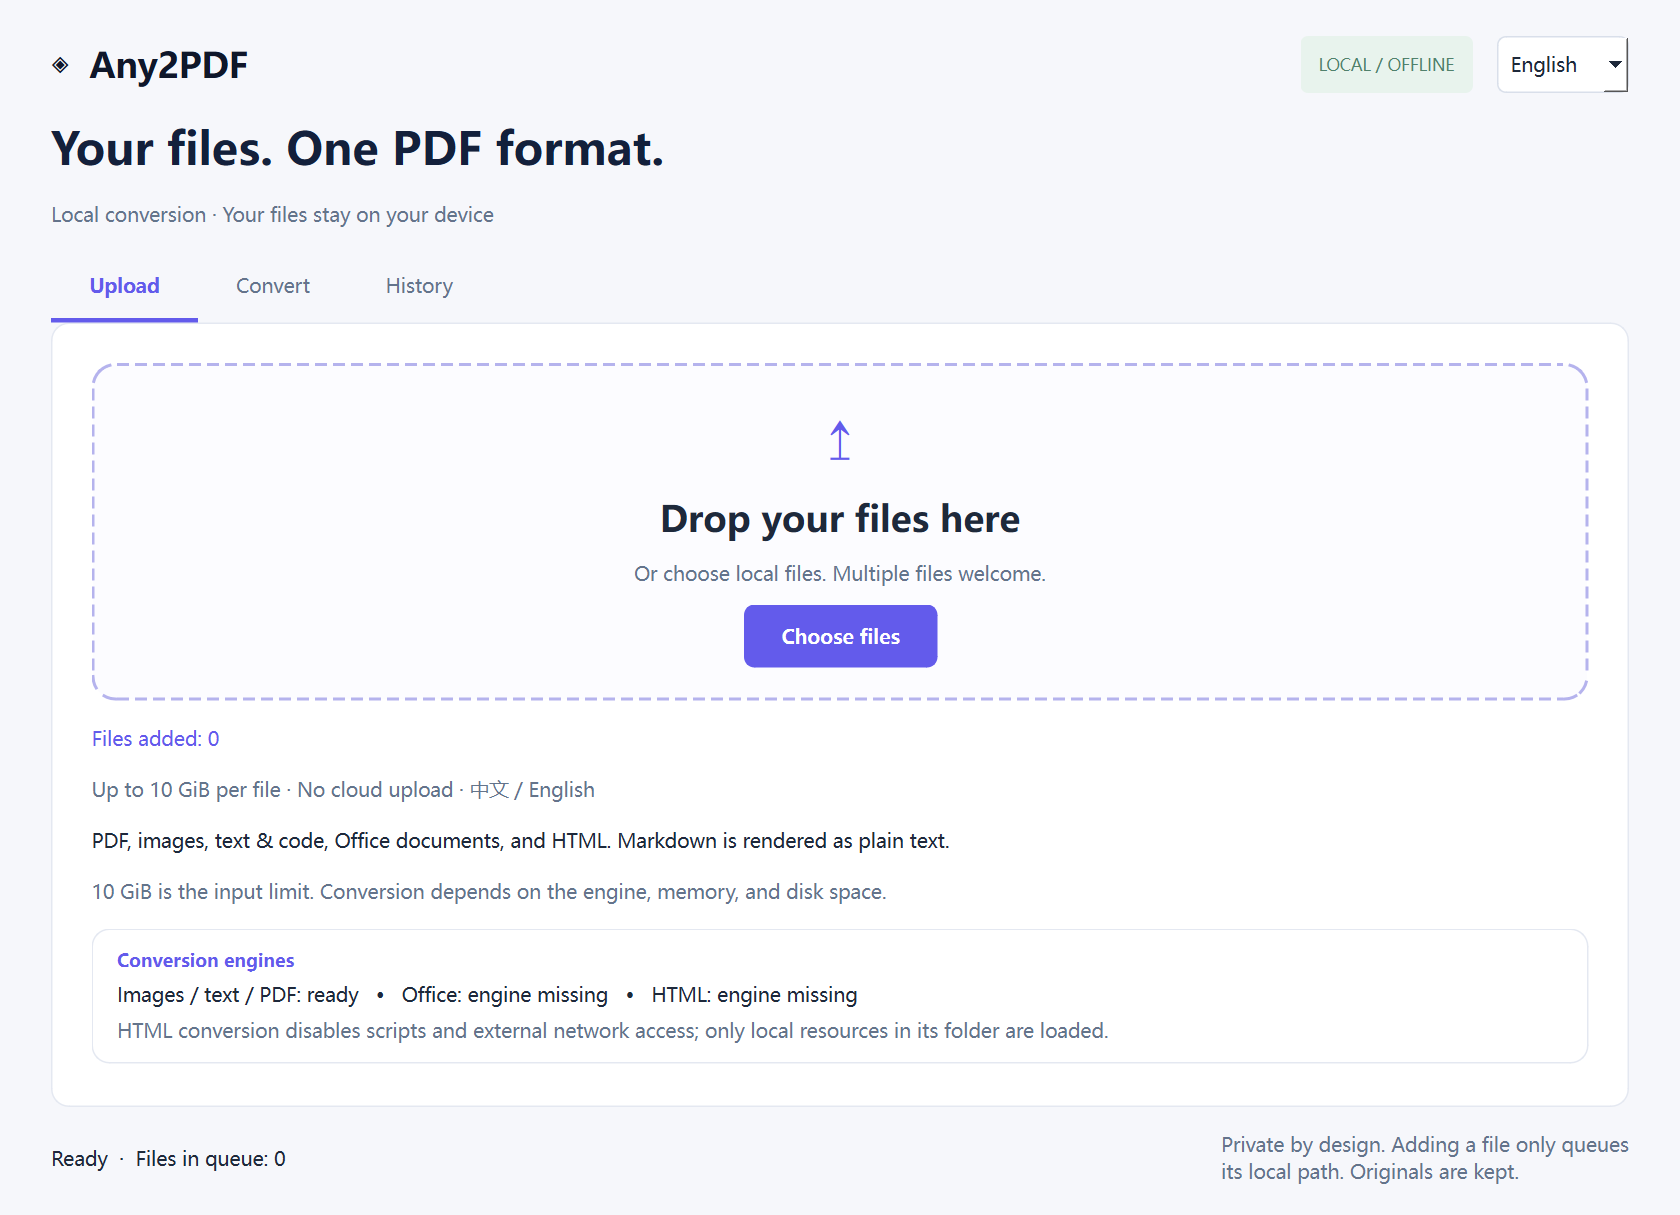
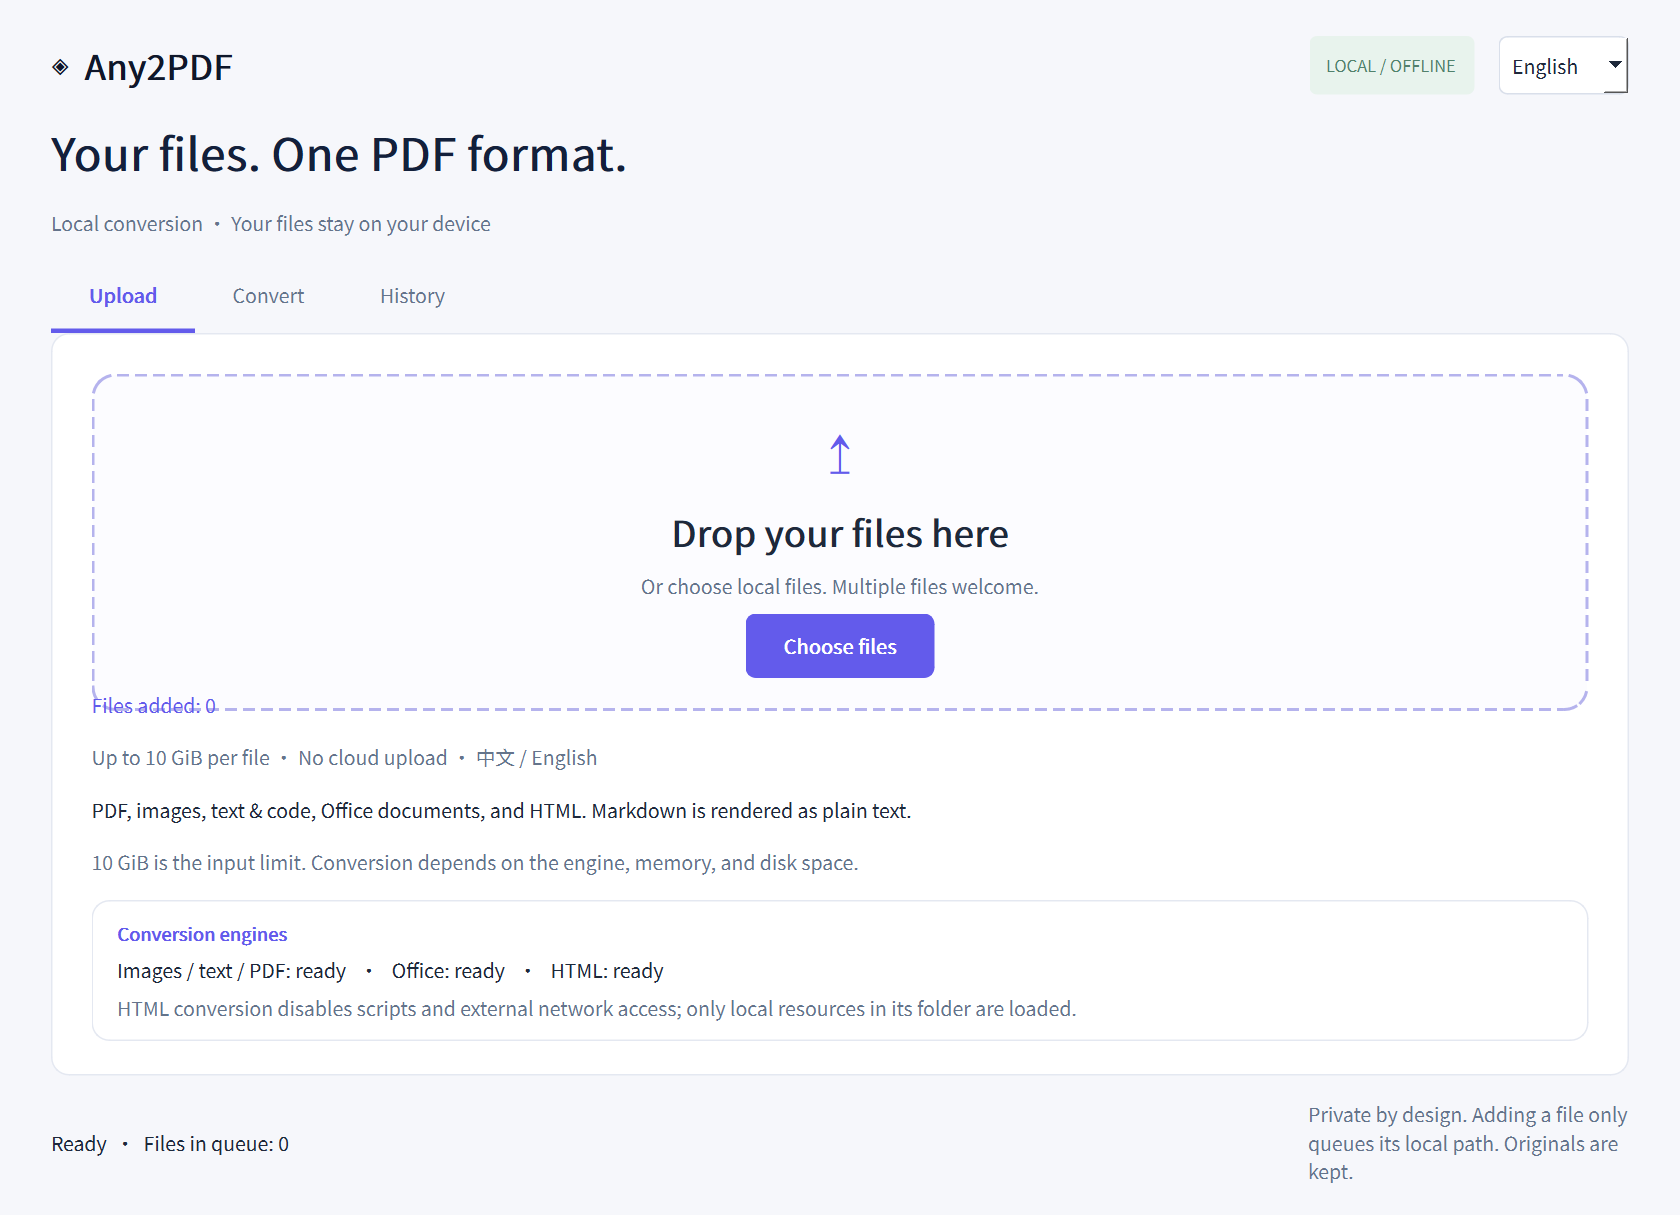
fix: complete native runtime fonts and bounded engine cleanup

diff --git a/any2pdf/engines.py b/any2pdf/engines.py
@@ -66,8 +66,30 @@ def office_pdf(source, target, cancelled):
         proc = subprocess.Popen(command, stdout=stream, stderr=subprocess.STDOUT,
                                 creationflags=subprocess.CREATE_NO_WINDOW if sys.platform == 'win32' else 0)
         start = time.monotonic()
+        descendants = {}
+        drain_started = None
+        def child_running(child):
+            try:
+                return child.is_running() and child.status() != psutil.STATUS_ZOMBIE
+            except psutil.NoSuchProcess:
+                return False
         try:
-            while proc.poll() is None:
+            while True:
+                try:
+                    for child in psutil.Process(proc.pid).children(recursive=True):
+                        descendants[child.pid] = child
+                except psutil.NoSuchProcess:
+                    pass
+                # The launcher may return before a conversion/helper child has
+                # finished writing its isolated profile. Keep that directory
+                # until all observed descendants have exited as well.
+                if proc.poll() is not None:
+                    if not any(child_running(child) for child in descendants.values()):
+                        break
+                    if drain_started is None:
+                        drain_started = time.monotonic()
+                    if time.monotonic() - drain_started >= 10:
+                        break  # finally kills and reaps known lingering children
                 if cancelled():
                     raise ConversionError('cancelled')
                 if time.monotonic() - start > TIMEOUT:
@@ -76,16 +98,44 @@ def office_pdf(source, target, cancelled):
         finally:
             if proc.poll() is None:
                 kill_tree(proc.pid)
+            for child in descendants.values():
+                if child_running(child):
+                    try:
+                        child.kill()  # Process handles protect against PID reuse.
+                    except psutil.NoSuchProcess:
+                        pass
+            psutil.wait_procs(list(descendants.values()), timeout=3)
+            # LO's extension registry creates paths over MAX_PATH even for an
+            # ordinary output folder. Without an extended Windows path Python
+            # can skip those files as "missing", then fail removing the parent.
+            if profile.exists():
+                cleanup_path = str(profile.resolve())
+                if sys.platform == 'win32':
+                    cleanup_path = ('\\\\?\\UNC\\' + cleanup_path[2:] if cleanup_path.startswith('\\\\')
+                                    else '\\\\?\\' + cleanup_path)
+                shutil.rmtree(cleanup_path)
     candidates = list(dest.glob('*.pdf'))
     if proc.returncode != 0 or len(candidates) != 1:
-        raise ConversionError('engine_failed', log.read_text(encoding='utf-8', errors='replace')[-16000:])
+        detail = f'LibreOffice exit code: {proc.returncode}; generated PDF files: {len(candidates)}\n'
+        detail += log.read_text(encoding='utf-8', errors='replace')[-15000:]
+        raise ConversionError('engine_failed', detail)
     candidates[0].replace(target)
 
 
 class LocalDocumentHandler(SimpleHTTPRequestHandler):
     """Serve only the source directory; disallow symlink escapes and listings."""
+    extensions_map = {**SimpleHTTPRequestHandler.extensions_map, '.ttf': 'font/ttf'}
+
+    def __init__(self, *args, font_path=None, **kwargs):
+        self.font_path = Path(font_path).resolve() if font_path is not None else None
+        super().__init__(*args, **kwargs)
+
     def translate_path(self, path):
         relative = unquote(urlparse(path).path).lstrip('/')
+        # This reserved URL exposes exactly one trusted bundled file, never
+        # an arbitrary path outside the document directory.
+        if relative == '__any2pdf_font.ttf' and self.font_path is not None:
+            return str(self.font_path)
         root = Path(self.directory).resolve()
         candidate = (root / relative).resolve()
         if not candidate.is_relative_to(root) or not candidate.is_file():
@@ -100,6 +150,39 @@ class LocalDocumentHandler(SimpleHTTPRequestHandler):
         pass
 
 
+def add_html_font_fallback(page, font_url):
+    """Trusted converter code runs while document-authored scripts stay disabled."""
+    page.evaluate('''fontURL => {
+        // Snapshot before changing inherited styles so descendants keep their
+        // original font choices and get exactly one appended fallback.
+        const styles = Array.from(document.querySelectorAll('*'), element =>
+            [element, getComputedStyle(element).fontFamily]);
+        const sheet = document.createElement('style');
+        sheet.textContent = '@font-face {font-family: "Any2PDF CJK"; src: url("' +
+            fontURL + '") format("truetype"); font-weight: 100 900; font-style: normal;}';
+        document.head.appendChild(sheet);
+        for (const [element, family] of styles) {
+            element.style.setProperty('font-family', family + ', "Any2PDF CJK"', 'important');
+        }
+        const probe = document.createElement('span');
+        probe.id = '__any2pdf_font_probe';
+        probe.textContent = '你好';
+        probe.style.cssText = 'font-family: "Any2PDF CJK" !important; font-size:16px; ' +
+            'position:absolute; left:-10000px; visibility:hidden; display:block !important';
+        document.body.appendChild(probe);
+        return probe.offsetHeight; // Force layout and the font request.
+    }''', font_url)
+    # Awaiting a JS Promise can hang indefinitely with document scripts disabled.
+    # Synchronous evaluation plus a bounded Python loop leaves font loading to
+    # Chromium without permitting document-authored JavaScript to run.
+    deadline = time.monotonic() + 30
+    while not page.evaluate('''() => document.fonts.check('16px "Any2PDF CJK"', '你好')'''):
+        if time.monotonic() >= deadline:
+            raise ConversionError('engine_failed', 'Bundled Chinese font did not load within 30 seconds')
+        time.sleep(0.05)
+    page.evaluate('''() => document.getElementById('__any2pdf_font_probe')?.remove()''')
+
+
 def html_pdf(source, target, cancelled):
     from urllib.parse import quote
     bundled = vendor_root() / 'chromium'
@@ -108,7 +191,9 @@ def html_pdf(source, target, cancelled):
     elif getattr(sys, 'frozen', False):
         raise ConversionError('missing_browser', bundled)
     from playwright.sync_api import sync_playwright, Error
-    handler = functools.partial(LocalDocumentHandler, directory=str(source.parent))
+    font = vendor_root() / 'fonts/NotoSansSC-Regular.ttf'
+    handler = functools.partial(LocalDocumentHandler, directory=str(source.parent),
+                                font_path=font if font.is_file() else None)
     server = ThreadingHTTPServer(('127.0.0.1', 0), handler)
     server.daemon_threads = True
     thread = threading.Thread(target=server.serve_forever, daemon=True)
@@ -118,14 +203,19 @@ def html_pdf(source, target, cancelled):
         with sync_playwright() as p:
             if not Path(p.chromium.executable_path).is_file():
                 raise ConversionError('missing_browser', p.chromium.executable_path)
-            browser = p.chromium.launch(headless=True)
+            browser = p.chromium.launch(headless=True, executable_path=p.chromium.executable_path)
             try:
-                page = browser.new_page(java_script_enabled=False)
+                # Source CSP must not prevent trusted font/style injection.
+                # Scripts remain disabled and the route still blocks networks.
+                page = browser.new_page(java_script_enabled=False, bypass_csp=True)
                 page.route('**/*', lambda route: route.continue_()
                            if route.request.url.startswith(origin + '/') else route.abort())
                 if cancelled():
                     raise ConversionError('cancelled')
                 page.goto(origin + '/' + quote(source.name), wait_until='networkidle', timeout=120000)
+                page.emulate_media(media='print')
+                if font.is_file():
+                    add_html_font_fallback(page, origin + '/__any2pdf_font.ttf')
                 page.pdf(path=str(target), format='A4', print_background=True,
                          margin={'top': '15mm', 'bottom': '15mm', 'left': '12mm', 'right': '12mm'})
             finally:

diff --git a/tests/test_engines.py b/tests/test_engines.py
@@ -52,15 +52,57 @@ def test_local_html_server_rejects_traversal_and_directory_listing(tmp_path):
         server.server_close()
 
 
+def test_local_html_font_endpoint_only_serves_configured_font(tmp_path):
+    root = tmp_path / 'documents'
+    root.mkdir()
+    font = tmp_path / 'vendor' / 'NotoSansSC-Regular.ttf'
+    font.parent.mkdir()
+    font.write_bytes(b'bundled font fixture')
+    (root / '__any2pdf_font.ttf').write_bytes(b'shadowed document file')
+    server = ThreadingHTTPServer(('127.0.0.1', 0),
+        partial(LocalDocumentHandler, directory=str(root), font_path=font))
+    thread = threading.Thread(target=server.serve_forever, daemon=True)
+    thread.start()
+    base = f'http://127.0.0.1:{server.server_port}'
+    try:
+        with urllib.request.urlopen(base + '/__any2pdf_font.ttf') as response:
+            assert response.read() == b'bundled font fixture'
+            assert response.headers.get_content_type() == 'font/ttf'
+        with pytest.raises(urllib.error.HTTPError):
+            urllib.request.urlopen(base + '/../vendor/NotoSansSC-Regular.ttf')
+    finally:
+        server.shutdown()
+        server.server_close()
+
+
 @pytest.mark.integration
 def test_real_html_pdf(tmp_path):
     from any2pdf.engines import capabilities
     if not capabilities()['html']:
         pytest.skip('Chromium not downloaded')
     source = tmp_path / 'page.html'
-    source.write_text('<!doctype html><meta charset="utf-8"><h1>Local HTML</h1><p>你好</p>', encoding='utf-8')
-    result = convert(source, tmp_path / 'out')
+    source.write_text('<!doctype html><meta charset="utf-8"><h1>Local HTML</h1><p>你好</p>'
+                      '<script>document.body.innerHTML="DOCUMENT SCRIPT RAN"</script>', encoding='utf-8')
+    # A disabled-JavaScript promise regression must fail within a minute rather
+    # than hanging the entire integration suite and leaking browser processes.
+    import json
+    import subprocess
+    import sys
+    from any2pdf.engines import kill_tree
+    process = subprocess.Popen([sys.executable, '-c',
+        'import json,sys; from any2pdf.core import convert; '
+        'print(json.dumps(str(convert(sys.argv[1],sys.argv[2]))))',
+        str(source), str(tmp_path / 'out')], stdout=subprocess.PIPE, stderr=subprocess.PIPE)
+    try:
+        stdout, stderr = process.communicate(timeout=60)
+    except subprocess.TimeoutExpired:
+        kill_tree(process.pid)
+        process.communicate(timeout=10)
+        pytest.fail('HTML conversion exceeded 60 seconds with document scripts disabled')
+    assert process.returncode == 0, stderr.decode('utf-8', errors='replace')
+    result = Path(json.loads(stdout.decode('utf-8')))
     assert 'Local HTML' in PdfReader(result).pages[0].extract_text()
+    assert '你好' in PdfReader(result).pages[0].extract_text()
 
 
 @pytest.mark.integration
@@ -76,3 +118,5 @@ def test_real_office_pdf(tmp_path):
         archive.writestr('content.xml', '<?xml version="1.0" encoding="UTF-8"?><office:document-content xmlns:office="urn:oasis:names:tc:opendocument:xmlns:office:1.0" xmlns:text="urn:oasis:names:tc:opendocument:xmlns:text:1.0" office:version="1.2"><office:body><office:text><text:p>Office conversion test 你好</text:p></office:text></office:body></office:document-content>')
     result = convert(source, tmp_path / 'out')
     assert 'Office conversion test' in PdfReader(result).pages[0].extract_text()
+    assert '你好' in PdfReader(result).pages[0].extract_text()
+    assert not list((tmp_path / 'out').glob('.any2pdf-*'))

diff --git a/tests/test_packaging.py b/tests/test_packaging.py
@@ -96,3 +96,57 @@ def test_pyinstaller_analysis_excludes_vendor_binaries(tmp_path):
     payloads = [command[index + 1] for index, arg in enumerate(command) if arg == '--add-data']
     assert payloads == [f'{tmp_path / "LICENSE"}:.', f'{tmp_path / "THIRD_PARTY.md"}:.']
     assert not any('vendor' in item for item in command)
+
+
+@pytest.mark.parametrize('executable,fonts', [
+    ('LibreOffice/program/soffice.exe', 'LibreOffice/share/fonts/truetype'),
+    ('opt/libreoffice25.8/program/soffice', 'opt/libreoffice25.8/share/fonts/truetype'),
+    ('LibreOffice.app/Contents/MacOS/soffice', 'LibreOffice.app/Contents/Resources/fonts/truetype'),
+])
+def test_chinese_font_copied_into_office_private_fonts(tmp_path, executable, fonts):
+    vendor = tmp_path / 'vendor'
+    (vendor / 'fonts').mkdir(parents=True)
+    (vendor / 'fonts/NotoSansSC-Regular.ttf').write_bytes(b'static TTF')
+    (vendor / 'fonts/OFL.txt').write_text('SIL Open Font License')
+    soffice = vendor / 'libreoffice' / executable
+    soffice.parent.mkdir(parents=True)
+    soffice.write_bytes(b'office binary')
+    engines.bundle_office_font(vendor)
+    private_fonts = vendor / 'libreoffice' / fonts
+    assert (private_fonts / 'NotoSansSC-Regular.ttf').read_bytes() == b'static TTF'
+    assert (private_fonts / 'NotoSansSC-OFL.txt').read_text() == 'SIL Open Font License'
+    # A cached extraction marker must not suppress repair of private fonts.
+    (vendor / 'libreoffice/.any2pdf-version').write_text(engines.VERSION)
+    (private_fonts / 'NotoSansSC-Regular.ttf').unlink()
+    engines.bundle_office_font(vendor)
+    assert (private_fonts / 'NotoSansSC-Regular.ttf').read_bytes() == b'static TTF'
+
+
+def test_windows_office_runtime_dlls_are_app_local_and_x64_only(tmp_path):
+    vendor = tmp_path / 'vendor'
+    office = vendor / 'libreoffice'
+    program = office / 'LibreOffice/program'
+    program.mkdir(parents=True)
+    (program / 'soffice.exe').write_bytes(b'office')
+    (office / 'System64').mkdir()
+    (office / 'System32').mkdir()
+    (office / 'System64/vcruntime140.dll').write_bytes(b'x64 runtime')
+    (office / 'System64/msvcp140_1.dll').write_bytes(b'x64 C++ runtime')
+    (office / 'System32/vcruntime140.dll').write_bytes(b'wrong x86 runtime')
+    (office / 'System32/x86-only.dll').write_bytes(b'wrong architecture')
+    engines.bundle_office_windows_runtime(vendor)
+    assert (program / 'vcruntime140.dll').read_bytes() == b'x64 runtime'
+    assert (program / 'msvcp140_1.dll').read_bytes() == b'x64 C++ runtime'
+    assert not (program / 'x86-only.dll').exists()
+    assert (office / 'System64/vcruntime140.dll').read_bytes() == b'x64 runtime'
+    # Repairs an existing cached administrative extraction without MSI rerun.
+    (office / '.any2pdf-version').write_text(engines.VERSION)
+    (program / 'vcruntime140.dll').unlink()
+    engines.bundle_office_windows_runtime(vendor)
+    assert (program / 'vcruntime140.dll').read_bytes() == b'x64 runtime'
+
+
+def test_office_runtime_dll_copy_ignores_non_windows_tree(tmp_path):
+    vendor = tmp_path / 'vendor'
+    (vendor / 'libreoffice/opt/libreoffice25.8/program').mkdir(parents=True)
+    engines.bundle_office_windows_runtime(vendor)

diff --git a/scripts/fetch_engines.py b/scripts/fetch_engines.py
@@ -146,13 +146,48 @@ def fetch_font(vendor: Path, cache: Path) -> None:
     shutil.copy2(license_path, fonts / 'OFL.txt')
 
 
+def bundle_office_font(vendor: Path) -> None:
+    """Expose CJK glyphs through LibreOffice's private font directories."""
+    office = vendor / 'libreoffice'
+    destinations = set()
+    for pattern in ('**/program/soffice.exe', '**/program/soffice', '**/MacOS/soffice'):
+        for executable in office.glob(pattern):
+            base = executable.parent.parent
+            relative = 'Resources/fonts/truetype' if executable.parent.name == 'MacOS' else 'share/fonts/truetype'
+            destinations.add(base / relative)
+    if not destinations:
+        raise RuntimeError('Cannot locate bundled LibreOffice private font directory')
+    for destination in sorted(destinations):
+        destination.mkdir(parents=True, exist_ok=True)
+        shutil.copy2(vendor / 'fonts/NotoSansSC-Regular.ttf', destination / 'NotoSansSC-Regular.ttf')
+        shutil.copy2(vendor / 'fonts/OFL.txt', destination / 'NotoSansSC-OFL.txt')
+
+
+def bundle_office_windows_runtime(vendor: Path) -> None:
+    """Make the official MSI's x64 VC runtime DLLs application-local."""
+    office = vendor / 'libreoffice'
+    # Administrative extraction retains Windows Installer's System64 payload
+    # directory but does not install/register its files in the host system.
+    # System32 contains a different architecture and must never be used here.
+    runtime = office / 'System64'
+    if not runtime.is_dir():
+        return
+    libraries = sorted(runtime.glob('*.dll'))
+    for executable in office.glob('**/program/soffice.exe'):
+        for library in libraries:
+            shutil.copy2(library, executable.parent / library.name)
+
+
 def main() -> None:
     vendor, cache = ROOT / 'vendor', ROOT / '.local/downloads'
     vendor.mkdir(exist_ok=True)
     fetch_libreoffice(vendor, cache)
+    bundle_office_windows_runtime(vendor)
     fetch_font(vendor, cache)
+    # Always run even when the LibreOffice extraction marker is cached.
+    bundle_office_font(vendor)
     env = dict(os.environ, PLAYWRIGHT_BROWSERS_PATH=str(vendor / 'chromium'))
-    subprocess.run([sys.executable, '-m', 'playwright', 'install', 'chromium'], env=env, check=True)
+    subprocess.run([sys.executable, '-m', 'playwright', 'install', '--no-shell', 'chromium'], env=env, check=True)
     (vendor / 'versions.json').write_text(json.dumps({'libreoffice': VERSION, 'playwright': '1.56.0', 'font_commit': FONT_COMMIT}, indent=2))
 
 

diff --git a/scripts/smoke.py b/scripts/smoke.py
@@ -6,6 +6,7 @@ import json
 import os
 from pathlib import Path
 import subprocess
+import sys
 import tempfile
 import zipfile
 
@@ -30,6 +31,8 @@ def fixtures(root: Path) -> list[Path]:
 
 
 def main() -> None:
+    if sys.stdout and hasattr(sys.stdout, 'reconfigure'):
+        sys.stdout.reconfigure(encoding='utf-8', errors='backslashreplace')
     from pypdf import PdfReader, PdfWriter
 
     parser = argparse.ArgumentParser()

diff --git a/THIRD_PARTY.md b/THIRD_PARTY.md
@@ -9,6 +9,7 @@ Windows/Linux and the application resource directory on macOS.
 | Component | License / source |
 | --- | --- |
 | LibreOffice 25.8.7.2 | MPL 2.0 / LGPL 3+ and component licenses, retained in the complete distribution; [source archive](https://downloadarchive.documentfoundation.org/libreoffice/old/25.8.7.2/src/) |
+| Microsoft Visual C++ runtime DLLs supplied in the official LibreOffice Windows MSI | Original Microsoft terms retained with the LibreOffice payload; x64 DLLs are copied into LibreOffice's program directory for application-local loading |
 | Qt 6 / PySide6 / shiboken6 6.8.3 | LGPL 3 / GPL / commercial, including Qt module notices; [Qt LGPL obligations](https://www.qt.io/licensing/open-source-lgpl-obligations), [PySide source](https://download.qt.io/official_releases/QtForPython/pyside6/PySide6-6.8.3-src/) |
 | Playwright 1.56.0 | Apache 2.0; [source](https://github.com/microsoft/playwright/tree/v1.56.0) |
 | Chromium (revision pinned by Playwright 1.56.0) | BSD and numerous component licenses; retain browser `LICENSE*` / `credits*` files; [source](https://chromium.googlesource.com/chromium/src/) |

diff --git a/docs/verification.md b/docs/verification.md
@@ -4,7 +4,7 @@ Date: 2026-11-01. Development host: Windows x86-64, Python 3.12.4.
 
 ## Local evidence
 
-`python -m pytest tests -q` at source integration: **43 passed, 3 skipped**. Two integration skips are LibreOffice and Chromium before engine downloads; the third is a symlink-copy test requiring Windows symlink privileges. Linux/macOS exercise that test. Later build/CI evidence should supersede this count.
+`python -m pytest tests -q` with complete local engines: **51 passed, 1 skipped** (68.04 seconds). The skip is a symlink-copy test requiring Windows symlink privileges; Linux/macOS exercise it. Both real Office and HTML conversions passed, including Chinese text extraction. Later build/CI evidence should supersede this count.
 
 Verified behavior includes exact 10 GiB admission and >10 GiB rejection using a sparse file; this is a size-boundary test, not an arbitrary 10 GiB Office conversion claim. Text and PDF input use bounded reads. Rendered text/image pages are serialized to disk independently. Metadata, page indexes and a single decoded image/font remain memory consumers.
 
